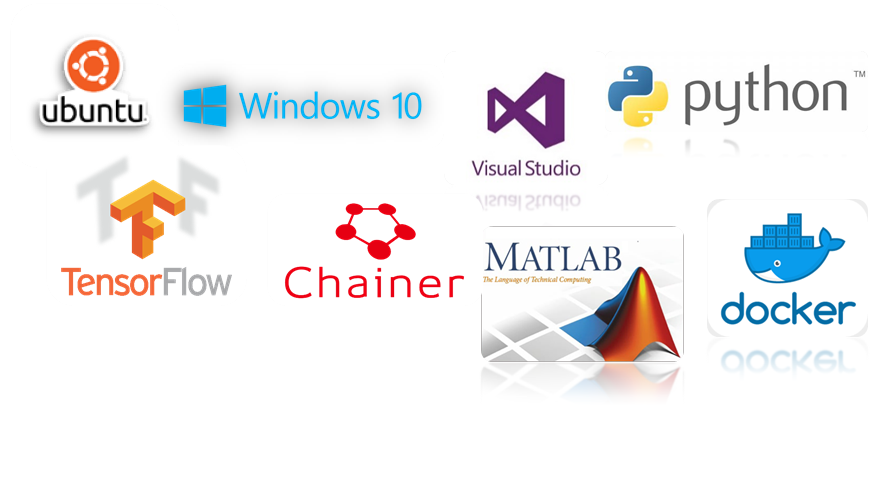
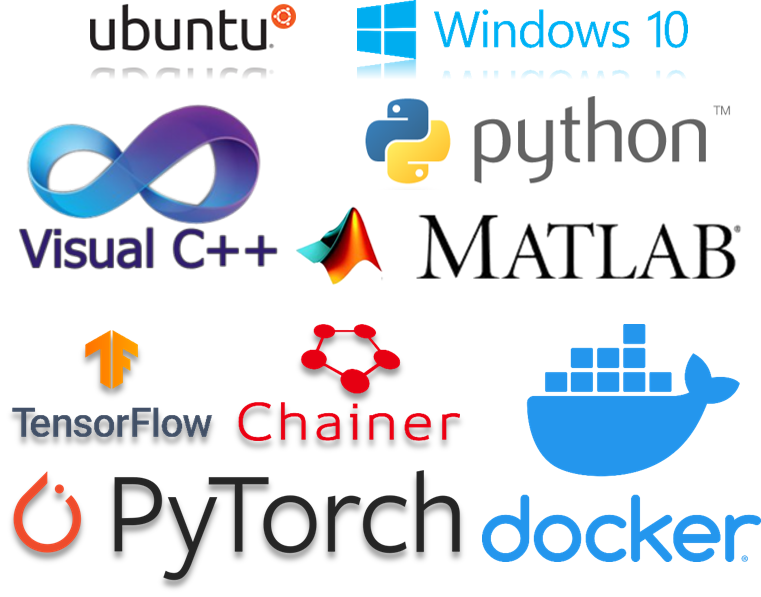
update development.png

diff --git a/content/equipments.ja.md b/content/equipments.ja.md
@@ -16,7 +16,7 @@ keywords = ["研究設備","gpu","cpu"]
 本研究室の学生には強力なコンピュータが支給されます．支給されたコンピュータは学生が1人で自由に使用することができ，いつでも様々な実験を行うことができます．  
 ここでは，個人用コンピュータの一部を紹介します．
 
-{{<facillity_list src="/content/source/csv/equipments/personal.ja.csv">}}  
+{{<facillity_list src="/static/csv/equipments/personal.ja.csv">}}  
 
 > ## サーバー
 
@@ -25,15 +25,15 @@ keywords = ["研究設備","gpu","cpu"]
 
 ### GPUサーバー
 
-{{<facillity_list src="/content/source/csv/equipments/gpu_server.csv">}}  
+{{<facillity_list src="/static/csv/equipments/gpu_server.csv">}}  
 
 ### CPUサーバー
 
-{{<facillity_list src="/content/source/csv/equipments/cpu_server.csv">}}  
+{{<facillity_list src="/static/csv/equipments/cpu_server.csv">}}  
 
 ### ファイルサーバー
 
-{{<facillity_list src="/content/source/csv/equipments/file_server.csv">}}  
+{{<facillity_list src="/static/csv/equipments/file_server.csv">}}  
 
 
 > ## 開発環境
@@ -44,8 +44,8 @@ keywords = ["研究設備","gpu","cpu"]
 
 - 開発言語: Visual C++, Matlab, Python等
 
-- 利用ライブラリ: Tensorflow, Chainer, Eigen, MIST, nalib, saitool
+- 利用ライブラリ: Tensorflow, Pytorch, Chainer, Eigen, MIST, nalib, saitool
 
 - その他: Docker
 
-<div align="center">{{< figure src="/img/equipments/development.png" width="100%">}}</div>
+<div align="center">{{< figure src="/img/equipments/development.png" width="80%" height="70%">}}</div>

diff --git a/content/equipments.en.md b/content/equipments.en.md
@@ -16,7 +16,7 @@ Students can use desktop computers provided from our lab as well as server machi
 The students in our laboratory are provided with powerful computers. The supplied computer can be used freely by one student and can perform various experiments at any time.  
 Here are some of the personal computers.  
 
-{{<facillity_list src="/content/source/csv/equipments/personal.en.csv">}}  
+{{<facillity_list src="/static/csv/equipments/personal.en.csv">}}  
 
 > ## Server
 
@@ -25,15 +25,15 @@ Here we introduce all the servers owned by our laboratory.
 
 ### GPU Server
 
-{{<facillity_list src="/content/source/csv/equipments/gpu_server.csv">}}  
+{{<facillity_list src="/static/csv/equipments/gpu_server.csv">}}  
 
 ### CPU Server
 
-{{<facillity_list src="/content/source/csv/equipments/cpu_server.csv">}}  
+{{<facillity_list src="/static/csv/equipments/cpu_server.csv">}}  
 
 ### File Server
 
-{{<facillity_list src="/content/source/csv/equipments/file_server.csv">}}  
+{{<facillity_list src="/static/csv/equipments/file_server.csv">}}  
 
 > ## Software environment
 
@@ -43,8 +43,8 @@ OS and software mainly used in our lab can be found below
 
 - Language: Visual C++, Matlab, Python etc.
 
-- Library: Tensorflow, Chainer, Eigen, MIST, nalib, saitool
+- Library: Tensorflow, Pytorch, Chainer, Eigen, MIST, nalib, saitool
 
 - else: Docker
 
-<div align="center">{{< figure src="/img/equipments/development.png"  width="100%">}}</div>
+<div align="center">{{< figure src="/img/equipments/development.png" width="80%" height="70%">}}</div>
